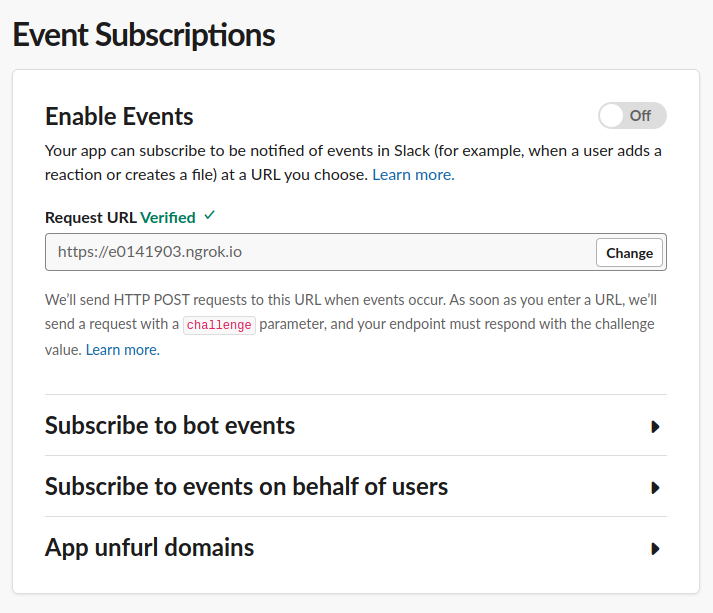
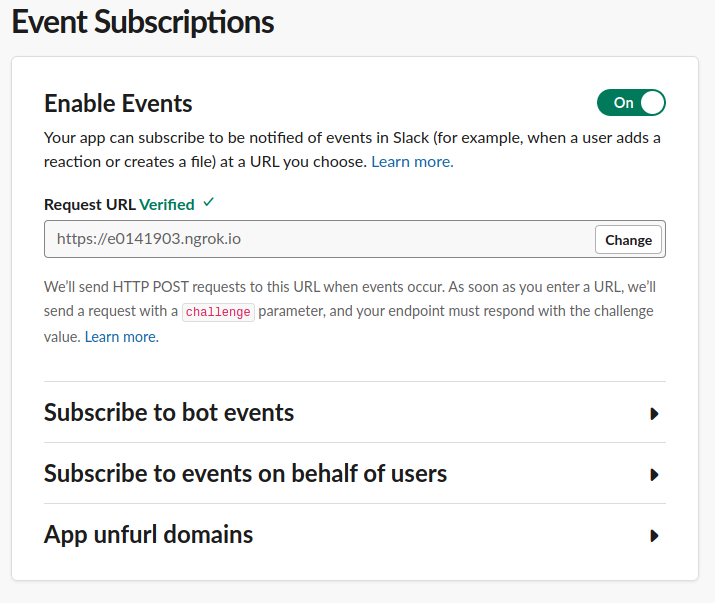
Fix README

diff --git a/README.md b/README.md
@@ -91,7 +91,7 @@ $ docker run --rm -e SLACK_TOKEN={BotUserOAuthAccessToken} h3poteto/slack-rage e
 ```
 
 You have to prepare Web server to receive webhook from Slack Event API. So please run this docker image in your server, and assign DNS, like `slack-rage.example.com`.
-And please set it to RequestURL in Event Subscriptions.
+And please set it to RequestURL in Event Subscriptions, and enable Events.
 
 ![event-subscription](./readme/event-subscription.png)
 
